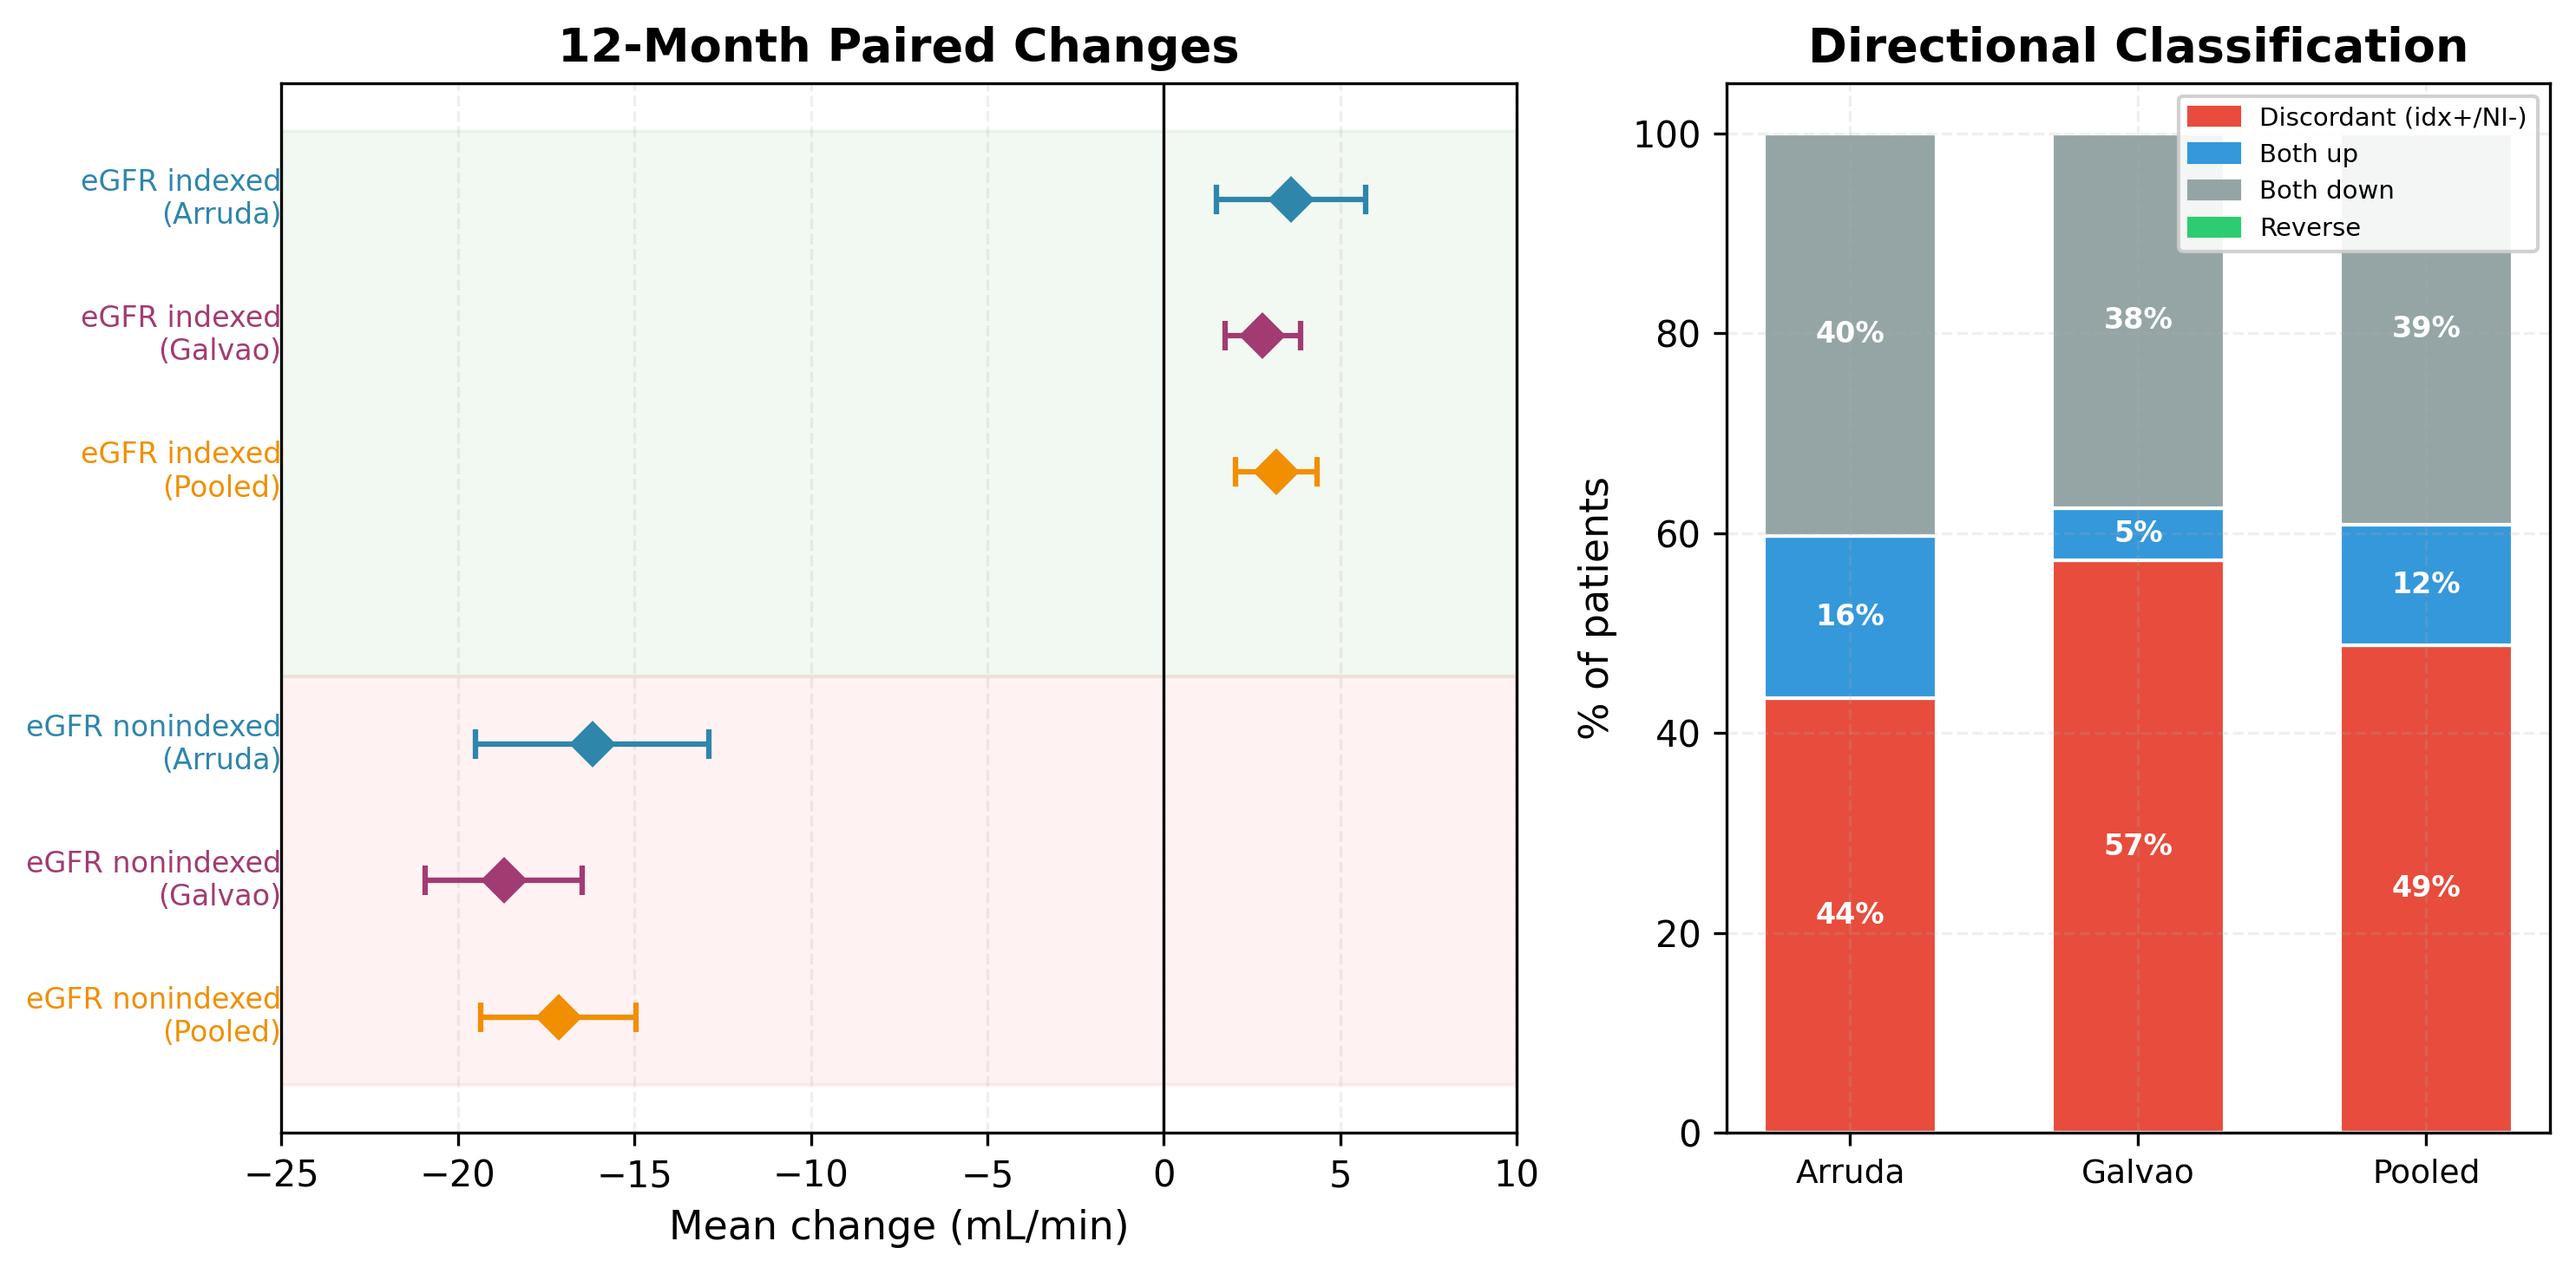
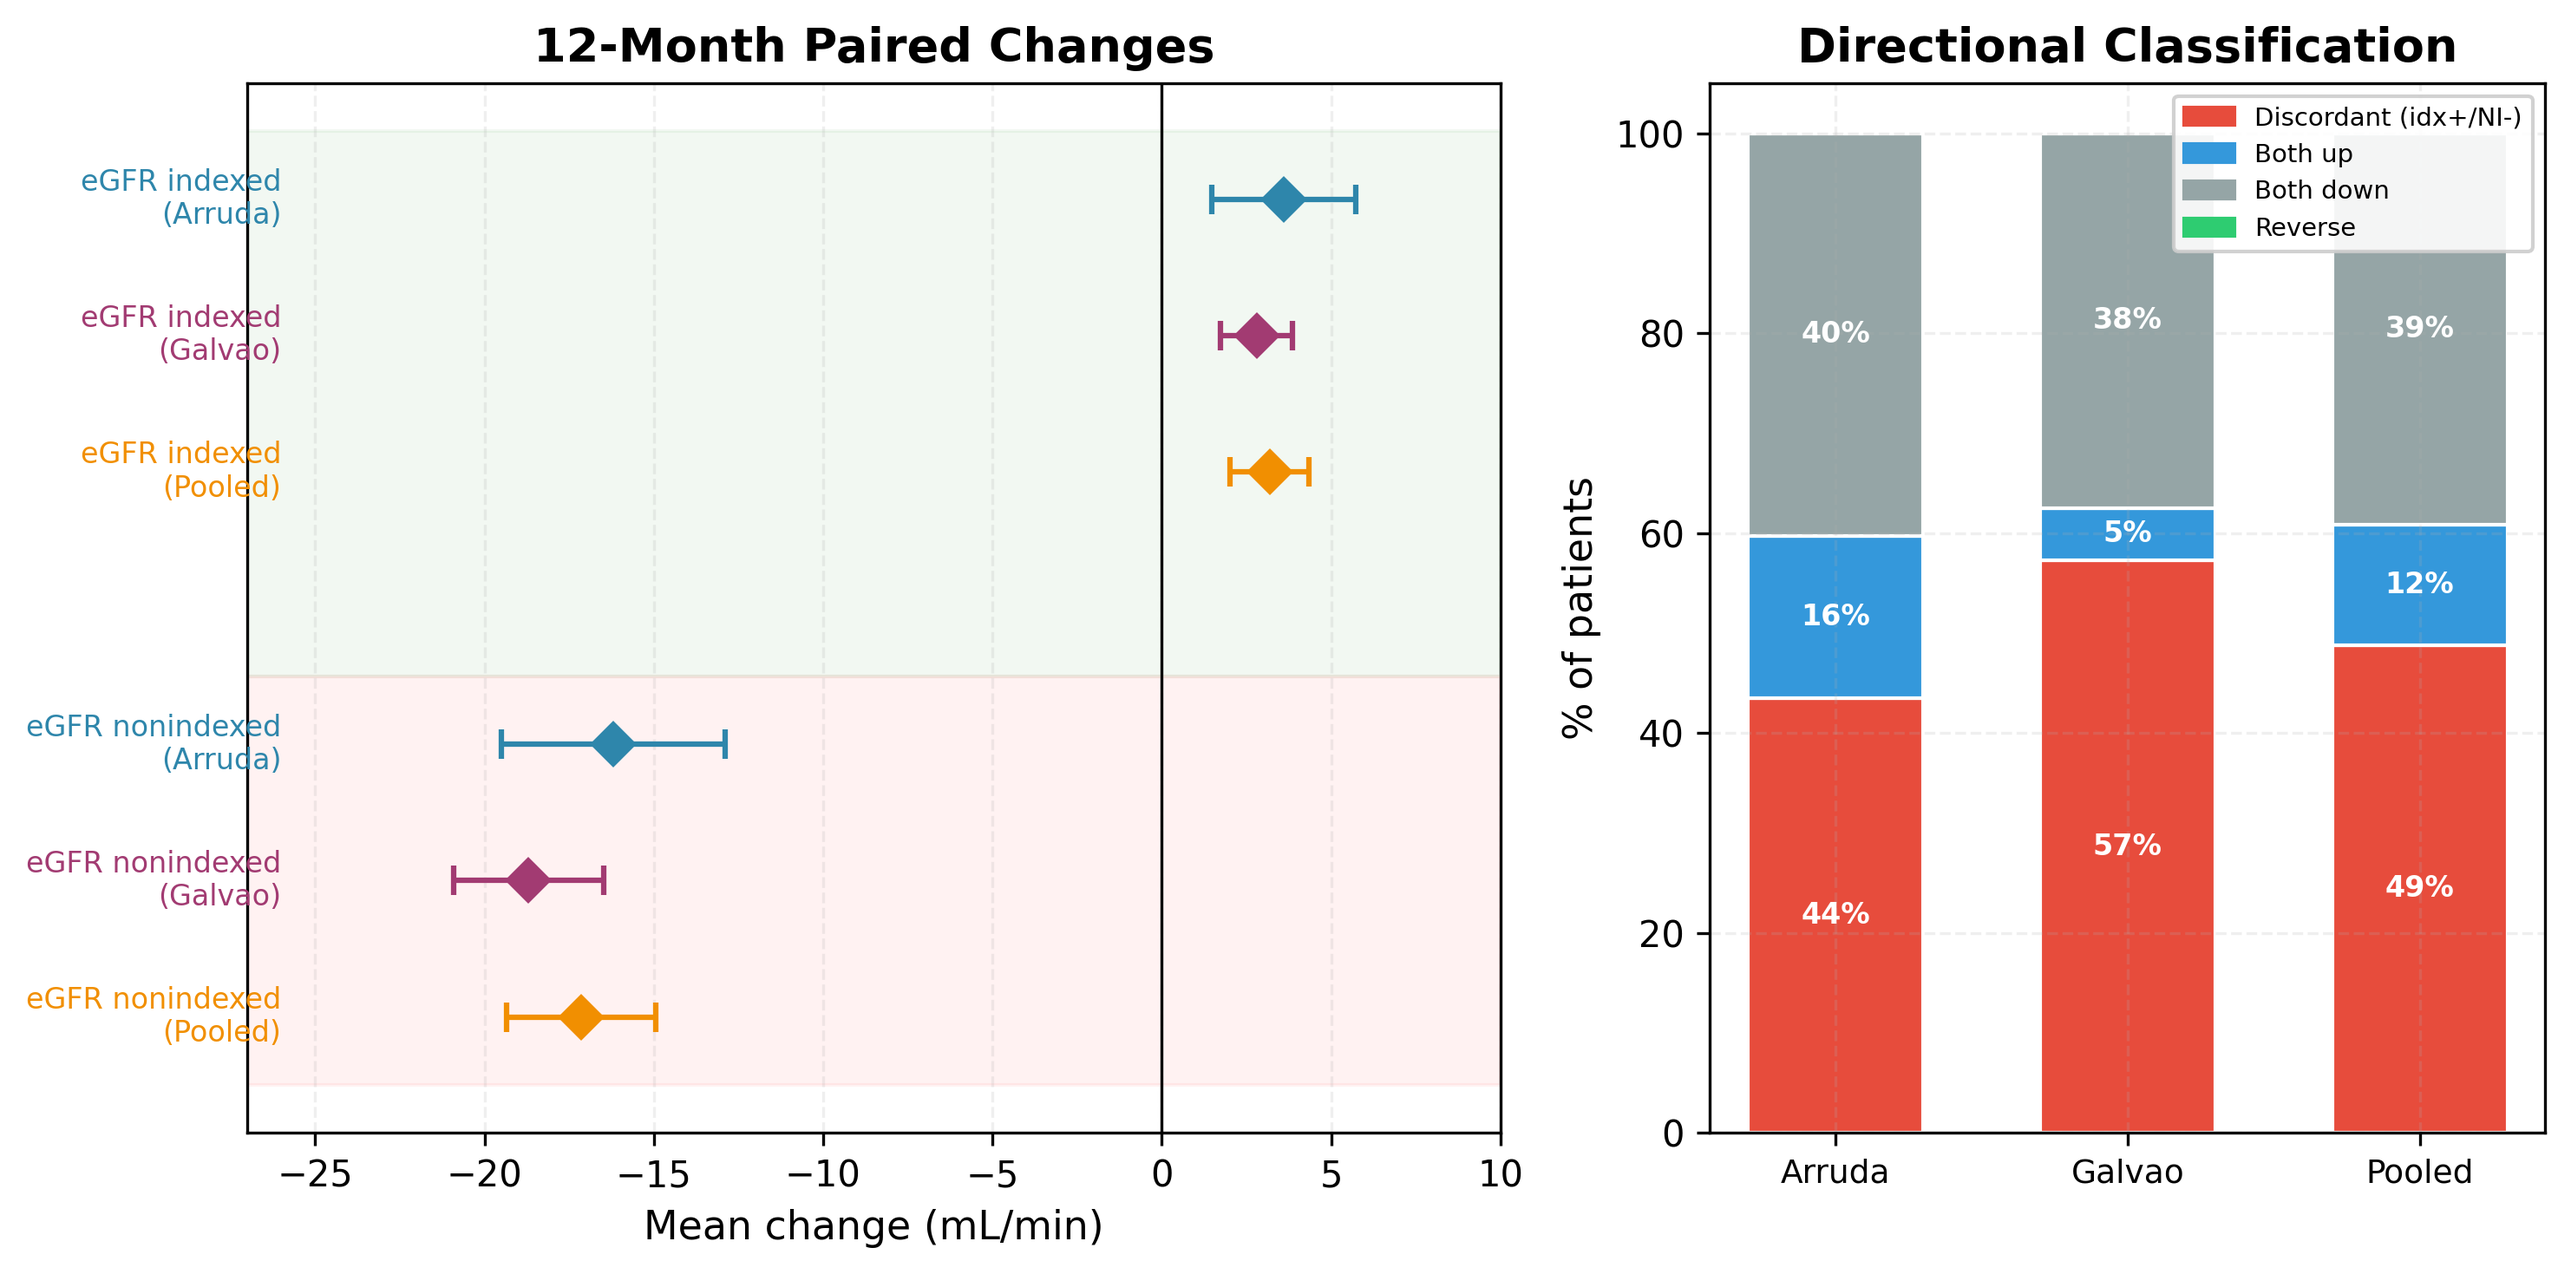
fix: resolve label overlap in figures
- Fig 1: reposition Tier 3/4 box to prevent right-side clipping
- Fig 2: move BSA% labels inside negative bars (white text)
- Fig 3: widen xlim to prevent forest plot label clipping
- S-Fig 2: add minimum threshold for text inside stacked bars
- S-Fig 3: move delta labels inside DuBois bars
- S-Fig 5: move N= labels inside negative bars (like S-Fig 6)
- S-Fig 6: move N= labels inside negative bars

diff --git a/scripts/gerar_docx_completo.py b/scripts/gerar_docx_completo.py
@@ -69,8 +69,8 @@ def save_fig(fig, name):
 
 # ── Figure 1: Flowchart ──
 print("Main figures:")
-fig, ax = plt.subplots(figsize=(11, 13))
-ax.set_xlim(0, 100); ax.set_ylim(0, 100); ax.axis('off')
+fig, ax = plt.subplots(figsize=(11, 15))
+ax.set_xlim(0, 100); ax.set_ylim(15, 100); ax.axis('off')
 
 def box(ax, x, y, w, h, text, fc='#E8F4FD', fs=7.5, bold=False):
     rect = mpatches.FancyBboxPatch((x-w/2, y-h/2), w, h, boxstyle='round,pad=0.3',
@@ -104,8 +104,8 @@ arrow(ax, 75, 86.75, 75, 84.25)
 box(ax, 75, 81.5, 24, 4.5, 'Sabin laboratory\nN = 6,236 patients', fc='#F8E8F6', fs=7)
 arrow(ax, 75, 79.25, 75, 76.75)
 box(ax, 75, 74, 24, 5.5, 'Name linkage:\nTier 1 exact: 2,281\nTier 2 homonym: 19\nTotal: 2,300', fc='#F8E8F6', fs=7)
-box(ax, 97, 74, 6, 4.5, 'Tier 3: 368\nTier 4: 581\n(sensitivity)', fc='#FDE8E8', fs=5.5)
-ax.annotate('', xy=(94, 74), xytext=(87, 74), arrowprops=dict(arrowstyle='->', color='#999', linewidth=1))
+box(ax, 95, 74, 6, 4.5, 'Tier 3: 368\nTier 4: 581\n(sensitivity)', fc='#FDE8E8', fs=5.5)
+ax.annotate('', xy=(92, 74), xytext=(87, 74), arrowprops=dict(arrowstyle='->', color='#999', linewidth=1))
 arrow(ax, 75, 71.25, 75, 68.75)
 box(ax, 75, 66, 24, 4.5, 'Bypass + quality filters\nN = 1,385', fc='#F8E8F6', fs=7)
 arrow(ax, 75, 63.75, 75, 61.25)
@@ -147,7 +147,8 @@ ax.axhline(0, color='black', linewidth=0.5); ax.legend(framealpha=0.95, loc='low
 ax.set_title('Shapley Decomposition of Nonindexed eGFR Change at 12 Months')
 for i, (e, b) in enumerate(zip(egfr_vals, bsa_vals)):
     pct = abs(b)/(abs(e)+abs(b))*100
-    ax.text(i, 5.5, f'BSA: {pct:.0f}%', ha='center', fontsize=9, fontweight='bold', color=POOLED)
+    # Place label inside the negative BSA bar, vertically centered
+    ax.text(i+w/2, b/2, f'BSA\n{pct:.0f}%', ha='center', va='center', fontsize=9, fontweight='bold', color='white')
 plt.tight_layout()
 fig2_path = save_fig(fig, 'fig2_shapley')
 
@@ -167,9 +168,9 @@ for i, (label, mean, lo, hi, color) in enumerate(endpoints):
     if np.isnan(mean): continue
     ax1.errorbar(mean, y_pos[i], xerr=[[mean-lo], [hi-mean]], fmt='D', color=color,
                  markersize=8, capsize=4, capthick=1.5, linewidth=1.5)
-    ax1.text(-25, y_pos[i], label, va='center', ha='right', fontsize=8, color=color)
+    ax1.text(-26, y_pos[i], label, va='center', ha='right', fontsize=8, color=color)
 ax1.axvline(0, color='black', linewidth=0.8); ax1.set_xlabel('Mean change (mL/min)')
-ax1.set_xlim(-25, 10); ax1.set_yticks([]); ax1.set_title('12-Month Paired Changes')
+ax1.set_xlim(-27, 10); ax1.set_yticks([]); ax1.set_title('12-Month Paired Changes')
 ax1.axhspan(2.5, 6.5, alpha=0.05, color='green'); ax1.axhspan(-0.5, 2.5, alpha=0.05, color='red')
 
 colors_disc = ['#E74C3C', '#3498DB', '#95A5A6', '#2ECC71']
@@ -295,8 +296,9 @@ ax.bar(x, improved, bottom=stable, color='#3498DB', label='Improved', edgecolor=
 ax.bar(x, worsened, bottom=[s+i for s,i in zip(stable, improved)], color='#E74C3C', label='Worsened', edgecolor='white')
 
 for i, (s, im, w, n) in enumerate(zip(stable, improved, worsened, ns)):
-    ax.text(i, s/2, f'{s:.0f}%', ha='center', va='center', fontsize=9, fontweight='bold', color='white')
-    if w > 1.5: ax.text(i, s+im+w/2, f'{w:.1f}%', ha='center', va='center', fontsize=7, color='white')
+    if s > 8: ax.text(i, s/2, f'{s:.0f}%', ha='center', va='center', fontsize=9, fontweight='bold', color='white')
+    if im > 5: ax.text(i, s+im/2, f'{im:.0f}%', ha='center', va='center', fontsize=7, color='white')
+    if w > 3: ax.text(i, s+im+w/2, f'{w:.1f}%', ha='center', va='center', fontsize=7, color='white')
     ax.text(i, 103, f'N={n}', ha='center', fontsize=7, color='grey')
 
 ax.set_xticks(x); ax.set_xticklabels(windows_order); ax.set_ylabel('% of patients')
@@ -319,7 +321,8 @@ ax.set_title('Nonindexed eGFR Change: DuBois vs Mosteller BSA Formula')
 ax.legend(framealpha=0.9)
 for i, (d, m) in enumerate(zip(dubois_vals, mosteller_vals)):
     diff = abs(m) - abs(d)
-    ax.text(i, min(d, m)-1.5, f'Diff: {diff:.1f}', ha='center', fontsize=8, color='grey')
+    # Place label inside the shorter (DuBois) bar
+    ax.text(i-w/2, d/2, f'Δ {diff:.1f}', ha='center', va='center', fontsize=8, fontweight='bold', color='white')
 plt.tight_layout()
 sfig3_path = save_fig(fig, 'sfig3_mosteller')
 
@@ -366,7 +369,8 @@ ax.axhline(0, color='black', linewidth=0.5)
 ax.set_ylabel('Mean change (mL/min)'); ax.set_title('Pre-operative Window Sensitivity')
 ax.legend(framealpha=0.9)
 for i, (v, n) in enumerate(zip(ni_vals, pre_sens['N_NI'])):
-    ax.text(i+w/2, v-1, f'N={int(n)}', ha='center', fontsize=7, color='grey')
+    # Place N label inside the negative orange bar, centered
+    ax.text(i+w/2, v/2, f'N={int(n)}', ha='center', va='center', fontsize=7, color='white', fontweight='bold')
 plt.tight_layout()
 sfig5_path = save_fig(fig, 'sfig5_pre_window')
 
@@ -384,7 +388,9 @@ ax.axhline(0, color='black', linewidth=0.5)
 ax.set_ylabel('Mean change (mL/min)'); ax.set_title('Galvao Date-Validated 12M Sensitivity')
 ax.legend(framealpha=0.9)
 for i, (n_idx, n_ni) in enumerate(zip(dv['N_idx'], dv['N_NI'])):
-    ax.text(i, 3, f'N idx={int(n_idx)}\nN NI={int(n_ni)}', ha='center', fontsize=7, color='grey')
+    # Place N labels inside the negative bar
+    y_mid = min(ni_dv[i], 0) / 2
+    ax.text(i+w/2, y_mid, f'N={int(n_idx)}/{int(n_ni)}', ha='center', va='center', fontsize=7, color='white', fontweight='bold')
 plt.tight_layout()
 sfig6_path = save_fig(fig, 'sfig6_galvao_datevalidated')
 
@@ -717,7 +723,7 @@ add_para(doc, 'None.')
 
 # ── DATA AVAILABILITY STATEMENT ──
 add_heading(doc, 'Data Availability Statement', level=2)
-add_para(doc, 'De-identified individual-level data are not publicly available because of privacy restrictions under the Brazilian General Data Protection Law (LGPD) and contractual restrictions involving the participating practices and laboratory. Analysis code and aggregated results are publicly available at https://github.com/RafaelBotan/bsa-indexing-bariatric-egfr and registered at https://osf.io/9r5w7/. Additional de-identified aggregate outputs may be available from the corresponding author on reasonable request and with permission from the data holders.')
+add_para(doc, 'De-identified individual-level data are not publicly available because of privacy restrictions under the Brazilian General Data Protection Law (LGPD) and contractual restrictions involving the participating practices and laboratory. Analysis code and aggregated results are permanently archived at Zenodo (doi:10.5281/zenodo.19155107) [18] and available at https://github.com/RafaelBotan/bsa-indexing-bariatric-egfr. The study was pre-registered at https://osf.io/9r5w7/. Additional de-identified aggregate outputs may be available from the corresponding author on reasonable request and with permission from the data holders.')
 
 doc.add_page_break()
 
@@ -730,8 +736,8 @@ references = [
     '1. Buchwald H, Avidor Y, Braunwald E, et al. Bariatric surgery: a systematic review and meta-analysis. JAMA. 2004;292(14):1724-1737. doi:10.1001/jama.292.14.1724',
     '2. Sjostrom L. Review of the key results from the Swedish Obese Subjects (SOS) trial. J Intern Med. 2013;273(3):219-234. doi:10.1111/joim.12012',
     '3. Chang AR, Chen Y, Still C, et al. Bariatric surgery is associated with improvement in kidney outcomes. Kidney Int. 2016;90(1):164-171. doi:10.1016/j.kint.2016.02.039',
-    '4. Friedman AN, Moe S, Gao D, et al. Measured and estimated glomerular filtration rate after bariatric surgery. J Ren Nutr. 2023;33(1):94-101. doi:10.1053/j.jrn.2022.03.003',
-    '5. Lieske JC, Collazo-Clavell ML, Engstrom BI, et al. Measured GFR and kidney outcomes after bariatric surgery. Clin J Am Soc Nephrol. 2024;19(3):305-313. doi:10.2215/CJN.0000000000000375',
+    '4. Friedman AN, Chang AR, Chuah LL, et al. Measurement, estimation, and correlates of the GFR before and after bariatric surgery. J Am Soc Nephrol. 2026. doi:10.1681/ASN.0000000797',
+    '5. Chagnac A, Weinstein T, Korzets A, Ramadan E, Hirsch J, Gafter U. Glomerular hemodynamics in severe obesity. Am J Physiol Renal Physiol. 2000;278(5):F817-F822. doi:10.1152/ajprenal.2000.278.5.F817',
     '6. KDIGO 2024 clinical practice guideline for the evaluation and management of chronic kidney disease. Kidney Int. 2024;105(4S):S117-S314. doi:10.1016/j.kint.2023.10.018',
     '7. Levey AS, Coresh J, Tighiouart H, Greene T, Inker LA. Measured and estimated glomerular filtration rate: current status and future directions. Nat Rev Nephrol. 2020;16(1):51-64. doi:10.1038/s41581-019-0191-y',
     '8. Delanaye P, Radermecker RP, Rorive M, Depas G, Krzesinski JM. Indexing glomerular filtration rate for body surface area in obese patients is misleading: concept and example. Nephrol Dial Transplant. 2005;20(10):2024-2028. doi:10.1093/ndt/gfh983',
@@ -739,11 +745,12 @@ references = [
     '10. von Elm E, Altman DG, Egger M, et al. The Strengthening the Reporting of Observational Studies in Epidemiology (STROBE) statement: guidelines for reporting observational studies. Lancet. 2007;370(9596):1453-1457. doi:10.1016/S0140-6736(07)61602-X',
     '11. Benchimol EI, Smeeth L, Guttmann A, et al. The REporting of studies Conducted using Observational Routinely-collected health Data (RECORD) statement. PLoS Med. 2015;12(10):e1001885. doi:10.1371/journal.pmed.1001885',
     '12. Inker LA, Eneanya ND, Coresh J, et al. New creatinine- and cystatin C-based equations to estimate GFR without race. N Engl J Med. 2021;385(19):1737-1749. doi:10.1056/NEJMoa2102953',
-    '13. Earley A, Miskulin D, Lamb EJ, Levey AS, Uhlig K. Estimating equations for glomerular filtration rate in the era of creatinine standardization: a systematic review. Ann Intern Med. 2012;156(11):785-795. doi:10.7326/0003-4819-156-6-201203200-00391',
+    '13. Earley A, Miskulin D, Lamb EJ, Levey AS, Uhlig K. Estimating equations for glomerular filtration rate in the era of creatinine standardization: a systematic review. Ann Intern Med. 2012;156(11):785-795. doi:10.7326/0003-4819-156-11-201203200-00391',
     '14. Du Bois D, Du Bois EF. A formula to estimate the approximate surface area if height and weight be known. Arch Intern Med. 1916;17(6_2):863-871. doi:10.1001/archinte.1916.00080130010002',
     '15. Mosteller RD. Simplified calculation of body-surface area. N Engl J Med. 1987;317(17):1098. doi:10.1056/NEJM198710223171717',
     '16. Shapley LS. A value for n-person games. In: Kuhn HW, Tucker AW, eds. Contributions to the Theory of Games II. Princeton University Press; 1953:307-317. doi:10.1515/9781400881970-018',
     '17. Efron B, Tibshirani RJ. An Introduction to the Bootstrap. Chapman & Hall/CRC; 1993.',
+    '18. Botan RN, Arruda S, Galv\u00e3o RO, Contreiras LBS, Rangel EB. Analysis code and aggregated results: BSA indexing artifact after bariatric surgery. Zenodo; 2026. doi:10.5281/zenodo.19155107',
 ]
 
 for ref in references:
